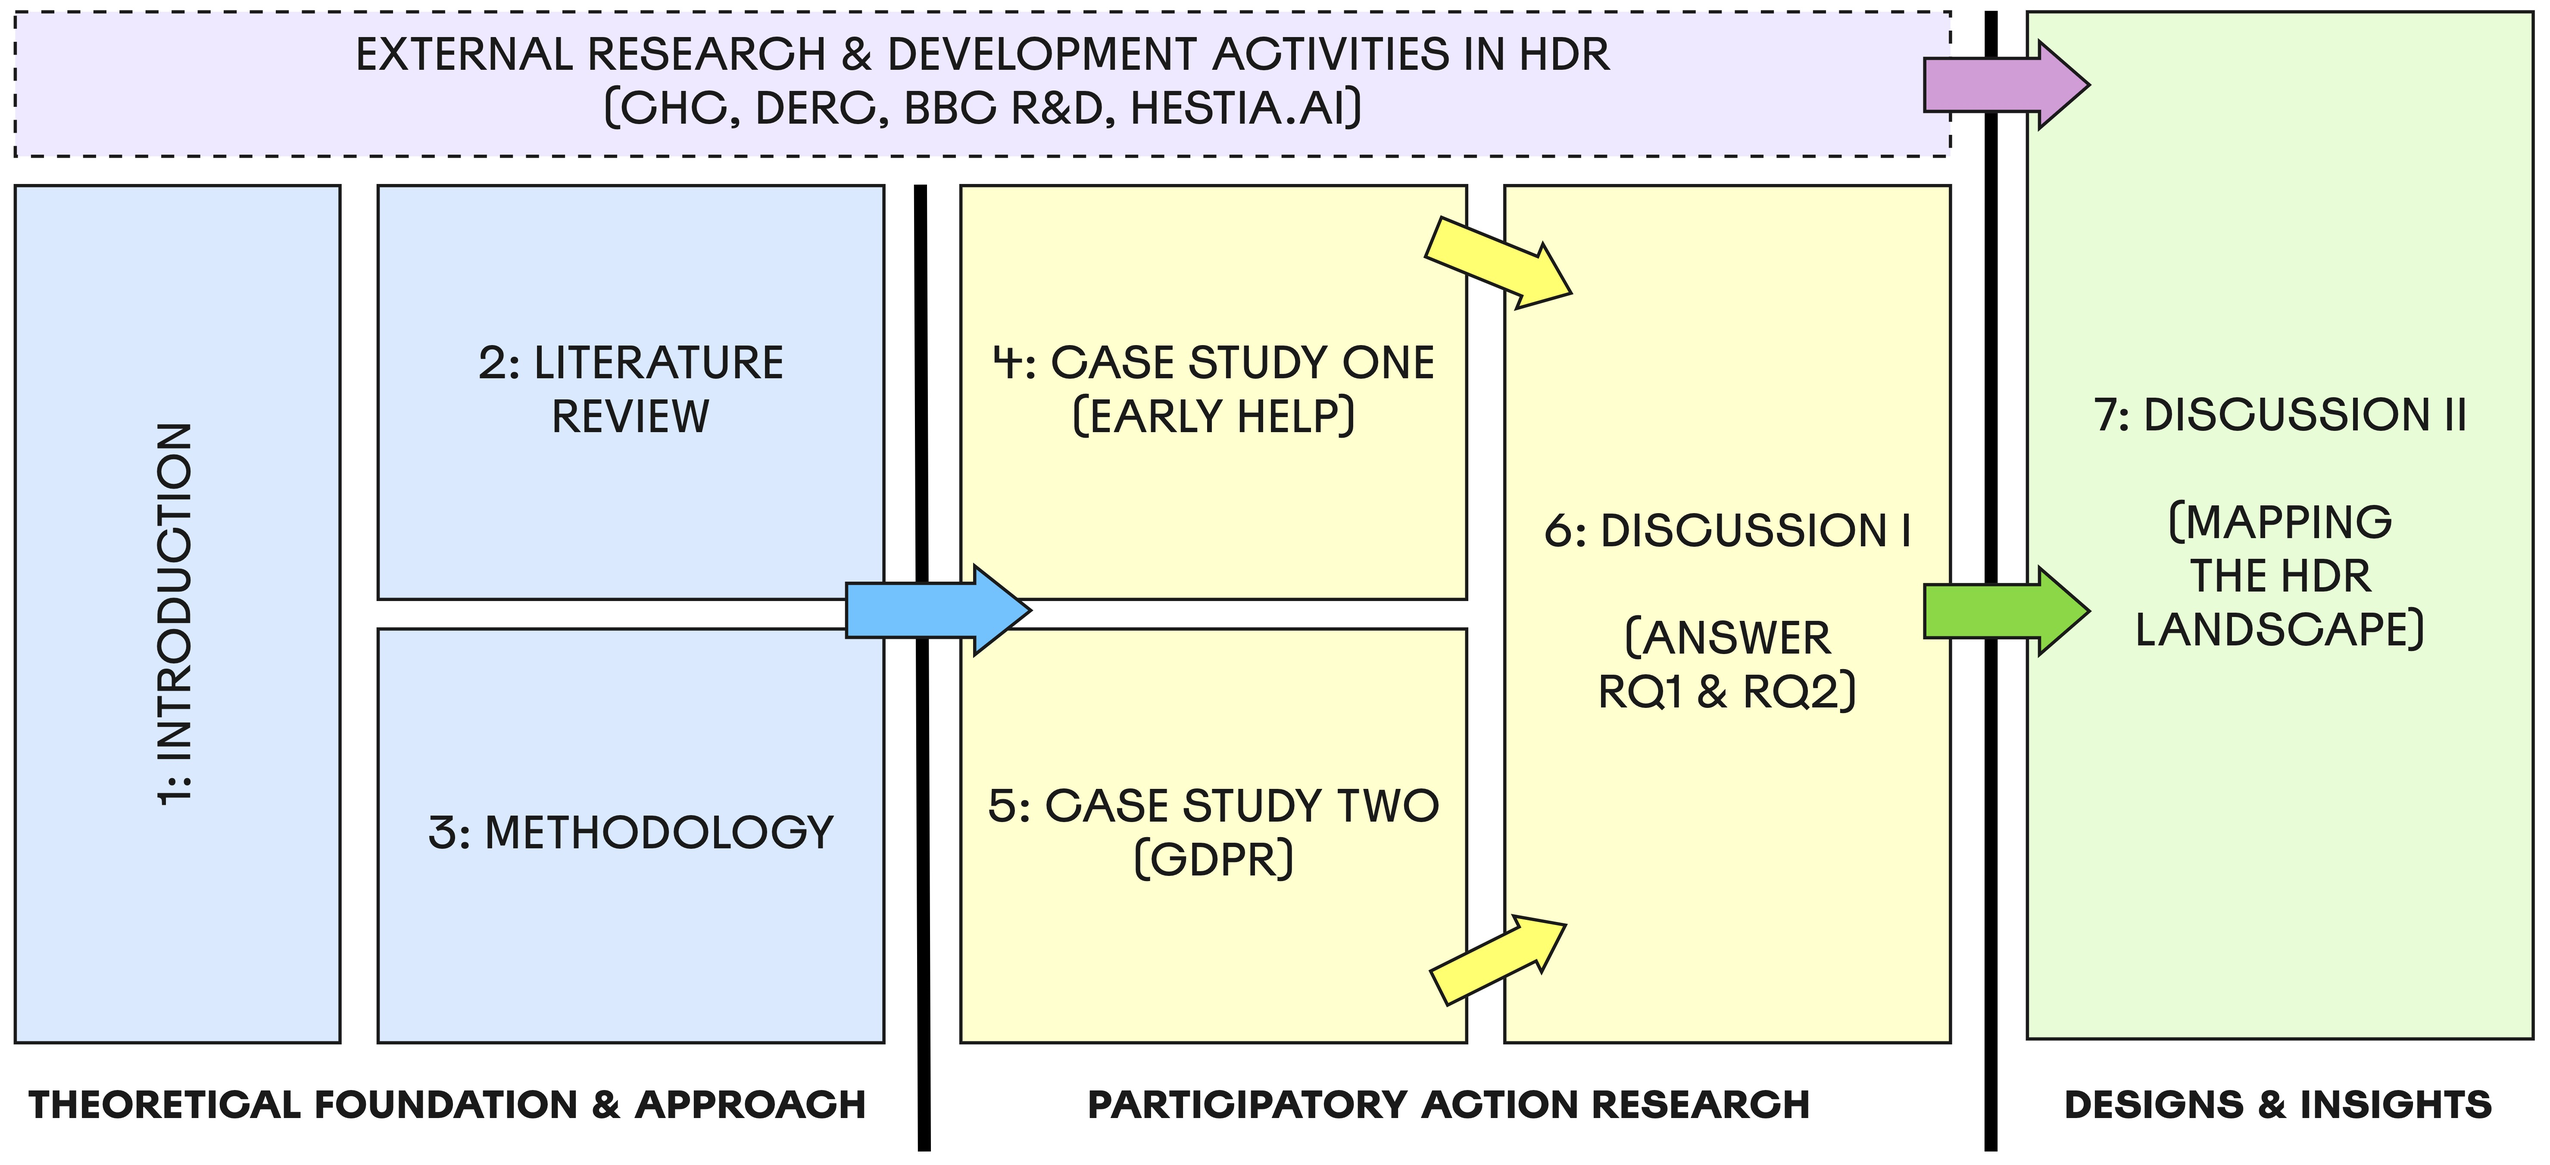
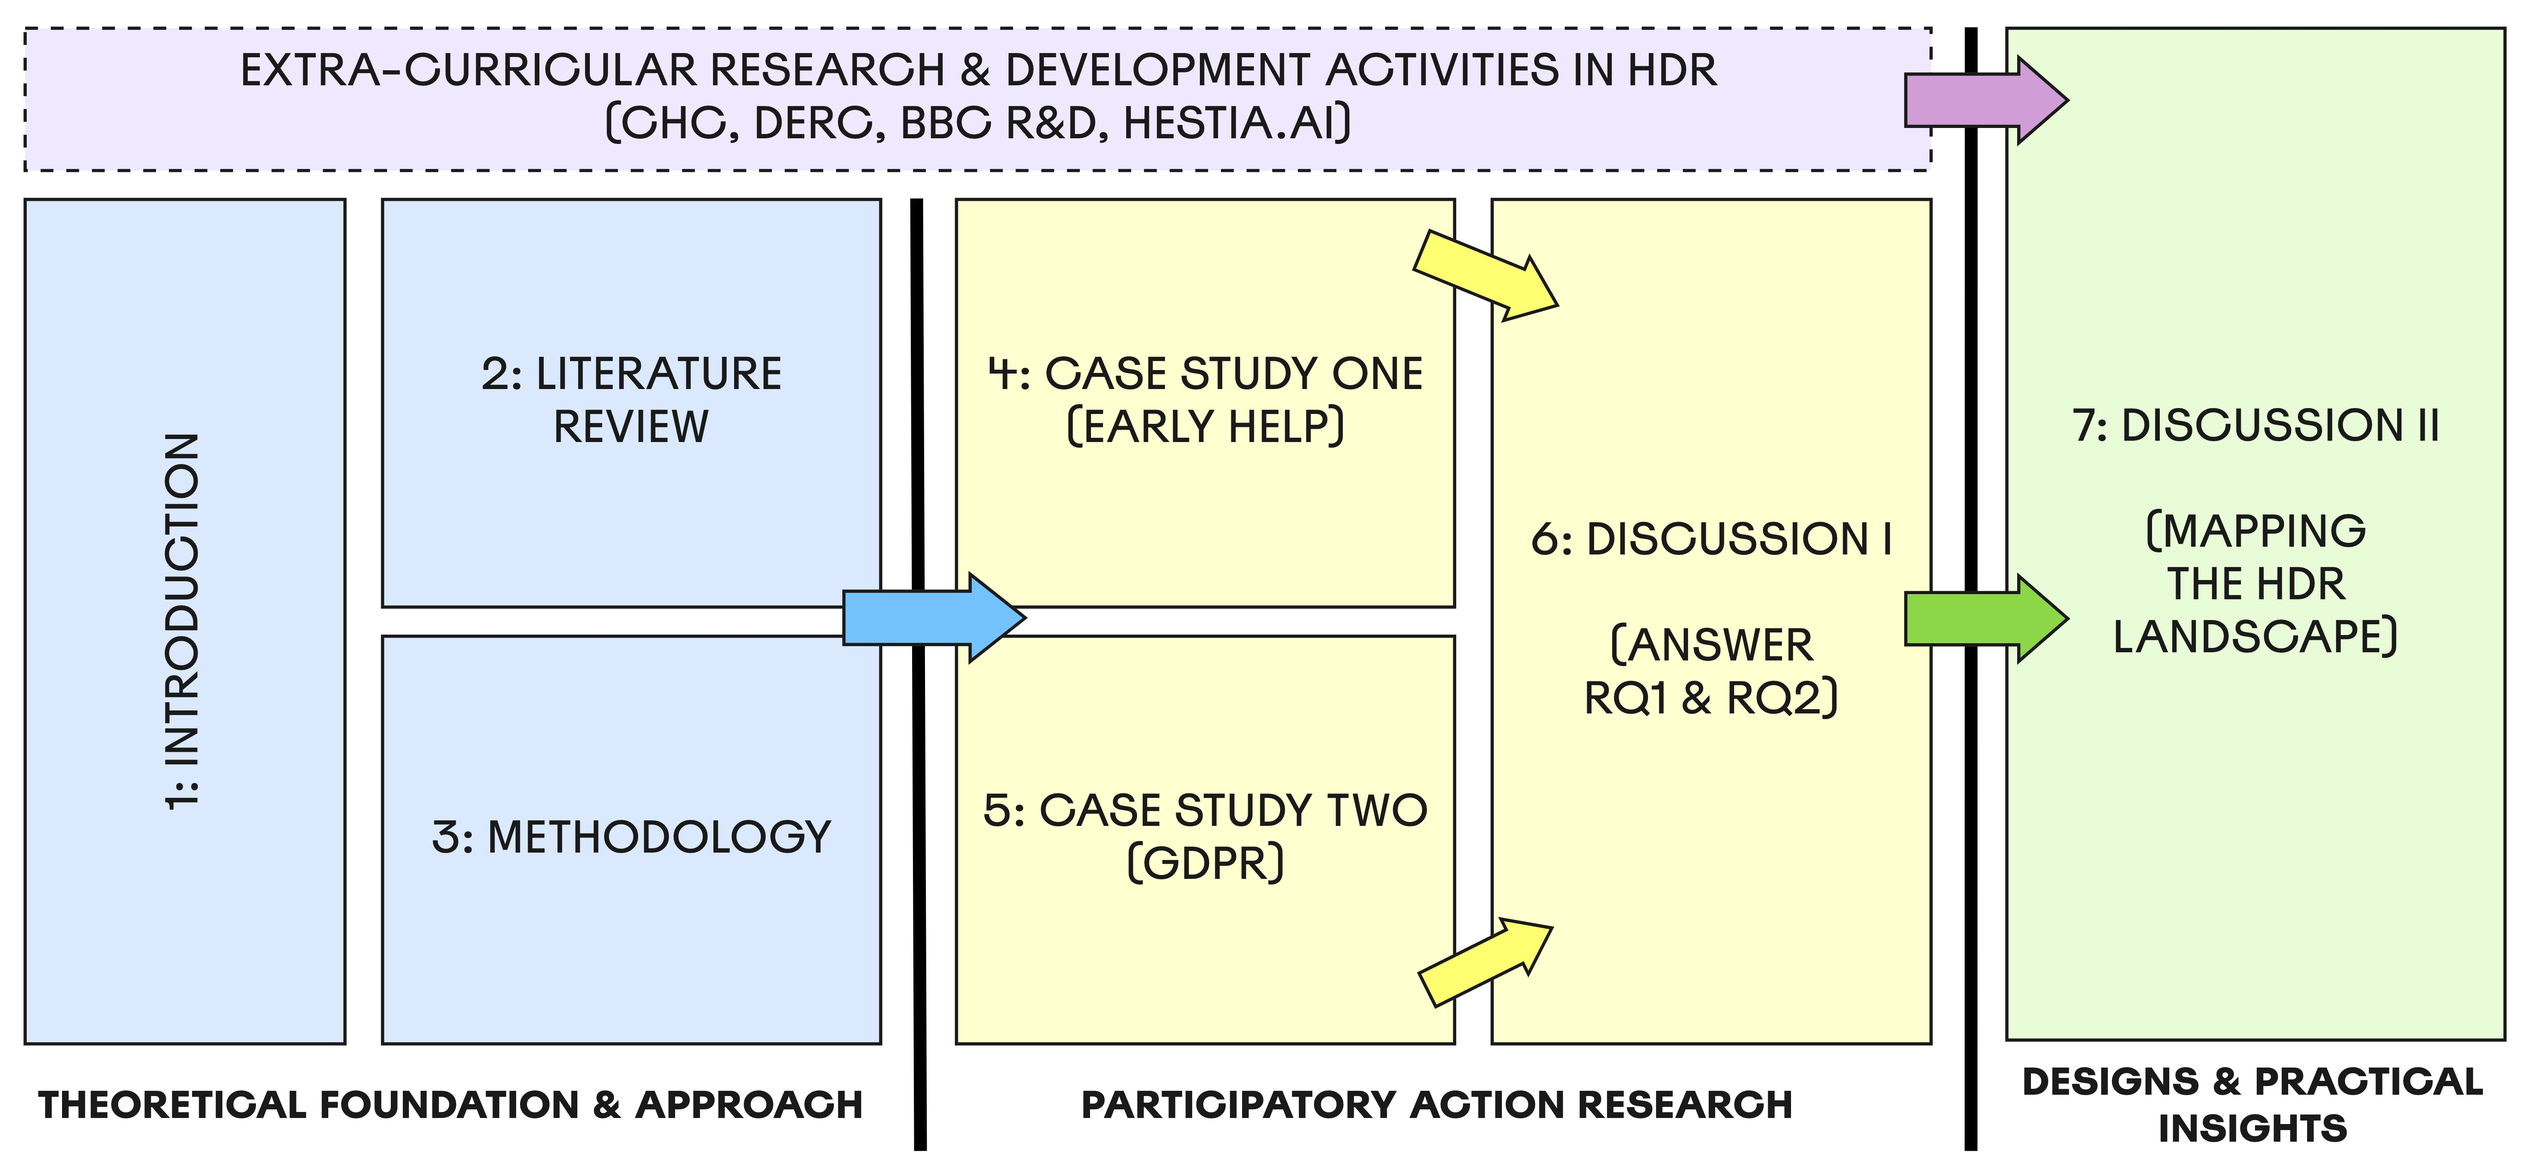
finished first draft Chapter 1 Introduction :-)

diff --git a/src/chapter-1.md b/src/chapter-1.md
@@ -163,13 +163,13 @@ A particularly novel and surprising discovery from Case Study Two was that the u
 
 Synthesis and analysis of participant experiences in Case Study Two enabled the production of specific guidance [[5.5](#5.5)] for parties involved in data relationships:
 
-1. Policymakers and DPOs should do better at enforcing GDPR rights, and regulate to improve response quality and legislate to mandate data holders to support data subjects in understanding data.
-2. Data-holding service providers should improve transparency over data and data handling process, and could seize the opportunities of more inclusive and collaborative models of individual data access to improve trust, empower users and reduce their own liability.
-3. Individuals should recognise the critical role of held personal data in modern life, embrace opportunities to access and exploit their own data and use data access rights to hold service providers to account.
+1. Policymakers and DPOs should do better at **enforcing GDPR rights**, and regulate to **improve response quality** and legislate to mandate data holders to **support data subjects in understanding data**.
+2. Data-holding service providers should **improve transparency** over data and data handling process, and could seize the opportunities of **more inclusive and collaborative models of individual data access** to improve trust, empower users and reduce their own liability.
+3. Individuals should recognise the critical role of held personal data in modern life, embrace opportunities to **access and exploit their own data** and **use data access rights to hold service providers to account**.
 
 **C12: A proto-methodology for educating individuals about held data, data access and the data ecosystem**
 
-While it was not designed as as methodological contribution nor formally evaluated as such within the scope of this thesis, the guided-data-retrieval-and-interview approach of Case Study Two [[5.2](#5.2)] has proven to be highly valuable and replicable as means to connect people with their held data and conduct research at that intersection point. Indeed my creation of this methodology was the primary reason why I was approached and employed as lead researcher of Hestia.ai/Sitra's digipower investigation [ADD REF], which adopted Case Study Two's methodology, with some adaptation and broadening of scope, for an important EU study auditing and understanding the power of data holders in the data economy [@bowyer2022b; @pidoux2022; ADD REF TO FINAL REPORT].
+While it was not designed as as methodological contribution nor formally evaluated as such within the scope of this thesis, the guided-data-retrieval-and-interview approach of Case Study Two [[5.2](#5.2)] has proven to be **highly valuable and replicable** as means to connect people with their held data and conduct research at that intersection point. Indeed my creation of this methodology was the primary reason why I was approached and employed as lead researcher of Hestia.ai/Sitra's digipower investigation [ADD REF], which **adopted Case Study Two's methodology**, with some adaptation and broadening of scope, for an important EU study auditing and understanding the power of data holders in the data economy [@bowyer2022b; @pidoux2022; ADD REF TO FINAL REPORT].
 
 Publications arising from and connected to this research{#1.3}
 --------------------------------------------------------
@@ -213,7 +213,7 @@ During the PhD, I gave a number of presentations and published three workshop pa
 - ["Designing For Human Autonomy: The next challenge that civic HCI must address"](https://eprints.ncl.ac.uk/273832) - a short talk I presented to my peers in January 2017 laying out the landscape of reduced agency and possible avenues for improving humans' relationships to their data.
 - ["Free Data Interfaces: Taking Human-Data Interaction to the Next Level"](https://eprints.ncl.ac.uk/273825) - a CHI 2018 workshop paper formalising past pre-PhD design thinking and outlining a vision for unconstrained and useful data interaction interfaces
 - ["A Grand Vision for Post-Capitalist HCI: Digital Life Assistants"](https://eprints.ncl.ac.uk/273826) - a CHI 2018 workshop paper where I imagined a form of digital computer assistant that is far more helpful and human-data-centric than the digital voice assistants of today.
-- ["Personal Data Use: A Human-centric Perspective"](https://eprints.ncl.ac.uk/273834) - in early 2020 just prior to the pandemic, I was invited to give a lecture on my research to undergraduate students at both Northumbria University and Newcastle University.
+- ["Personal Data Use: A Human-centric Perspective"](https://eprints.ncl.ac.uk/273834) - in early 2020 just prior to the pandemic, I was invited to give lectures on my research to undergraduate students at both Northumbria University and Newcastle University.
 - ["My Thesis in 3 Minutes: Understanding and Designing Human Data Relations"](https://www.youtube.com/watch?v=YFHXc_TfM5c) - in April 2021, I presented my thesis in the 3 minute thesis competition, and was co-winner of the people's choice prize.
 - ["Human-Data Interaction has two purposes: Personal Data Control and Life Information Exploration"](https://eprints.ncl.ac.uk/274297) - A workshop paper I presented at CHI 2021, where I first outlined my model of the two motivating factors for interacting with personal data.
 
@@ -229,18 +229,18 @@ During the same timeframe as this PhD, I have also contributed to a number of pu
 The structure of this thesis{#1.4}
 ----------------------------
 
-The overall structure of this thesis is illustrated in Figure X. This introduction is followed by a literature review [[Chapter 2](#chapter-2)]] and a methodology chapter [[Chapter 3](#chapter-3)]. Both research questions RQ1 and RQ2 are examined in both Case Studies, and these studies are documented as self-contained pieces of research in [[Chapter 4](#chapter-4)] and [[Chapter 5](#chapter-5)] respectively. In [[Chapter 6](#chapter-6)] the findings and insights from the Case Studies are synthesised into common findings as to what people want from data and from data holders, which concludes the investigation of the two research questions. [[Chapter 7](#chapter-7)] opens up the future of the HDR landscape and sets the stage for future research and innovation, building on both the research conclusions in Chapter 6 as well as my practical experiences from other related research and development activities conducted outside of this PhD research but during the same timeframe.
+The overall structure of this thesis is illustrated in Figure X. This introduction is followed by a literature review [[Chapter 2](#chapter-2)] and a methodology chapter [[Chapter 3](#chapter-3)]. Both research questions RQ1 and RQ2 are examined in both Case Studies, and these studies are documented as self-contained pieces of research in [[Chapter 4](#chapter-4)] and [[Chapter 5](#chapter-5)] respectively. In [[Chapter 6](#chapter-6)] the findings and insights from the Case Studies are synthesised into common findings as to what people want from data and from data holders, which concludes the investigation of the two research questions. [[Chapter 7](#chapter-7)] opens up the future of the HDR landscape and sets the stage for future research and innovation, building on both the research conclusions in Chapter 6 as well as my practical experiences from other related research and development activities conducted outside of this PhD research but during the same timeframe.
 
 ![Figure X: The Structure of this Thesis](./src/figs/figX-thesis-structure.jpg)
 
-[Chapter 2](#chapter-2)...[120w]
+[Chapter 2](#chapter-2) is a literature review divided into three key sections. The first [[2.1](#2.1)] examines the difference between data and information, outlines the central role data has taken in our society, why people need effective access to their data and how laws have been introduced to try and deliver this. The second [[2.2](#2.2)] serves as history of personal data interaction, from Personal Information Management to the emergence of complex digital lives involving relationships with many data-holding providers. Finally [[2.3](#2.3)] charts a path from HCI and Human-Data Interaction foundations through to the embracing of sociotechnical thinking around data and the current bleeding edge of human-centred innovation.
 
-[Chapter 3](#chapter-3)...[120w]
+[Chapter 3](#chapter-3) describes the methodology used in this research, explaining first the constructist ontology and pragmatist epistemology behind the approach [[3.1](#3.1)]. Then the choice of participatory action research and co-design from a Digital Civics standpoint is explained [[3.2](#3.2)]. The two research questions (RQs) are explained in more detail [[3.3](#3.3)] and the contexts for the Case Studies are introduced from a personal 'what did I do?' perspective [[3.4](#3.4)]. Finally the specific methods and techniques adopted in the research are explained and illustrated, including sensitisation, workshop activities, recruitment strategies and modelling [[3.5](#3.5)].
 
-[Chapter 4](#chapter-4)...[120w]
+[Chapter 4](#chapter-4) is a detailed, self-contained account of Case Study One. This begins [[4.1](#4.1)] with a detailed introduction to the UK's Early Help social care context, including its history of data-centrism and the inherent contradiction between that and the empowerment goals of Early Help which make it an ideal setting to explore my research questions. In [4.2](#4.2), prior findings on family and staff perspectives are introduced, motivating the _'Shared Data Interaction'_ vision and structure of the workshops, whose participants' shared values are introduced. The thematic findings are detailed extensively [[4.3](#4.3)] including participant quotes, and then contextualised in the discussion [[4.4](#4.4)] in terms of the value of involving people with their data, the link between HDI and effective data access, and the implications of shifting the locus of decision-making. The research is summarised in [[4.5](#4.5)].
 
-[Chapter 5](#chapter-5)...[120w]
+[Chapter 5](#chapter-5) is a thorough and self-contained write-up of Case Study Two. The first section [[5.1](#5.1)] provides additional context on the need for data access, prior GDPR research and the human-centric approach to this study, whose design and configuration is detailed in [5.2](#5.2). Findings are shared: firstly [[5.3](#5.3)] the largely quantitative outcomes of the participants' GDPR requests, interview responses and trust/power scores, then the thematic findings [5.4](#5.4), illustrated with participant quotes. The discussion [[5.5](#5.5)] contextualises and synthesises the findings into human-centric, GDPR-improving guidelines for policymakers, data holders and individuals. The research is summarised in [[5.6](#5.6)].
 
-[Chapter 6](#chapter-6)...[120w]
+[Chapter 6](#chapter-6) synthesises the two case studies, and answers RQ and RQ2, bringing the thesis's central empirical research to a close based on findings and discursive insights from both studies backed by literature references. The answer to RQ1 is provided [[6.1](#6.1)] as people's three wants from direct data relations (for it to be visible, understandable and useable), and the answer to RQ2 is provided [[6.2](#6.2)] as people's three wants from indirect data relations (process transparency, individual oversight, and involvement). The chapter concludes [[6.3](#6.3)] by outlining this thesis's perspective power and positioning the pursuit of these six _'data wants'_ as _empowerment_ relative to that perspective and thus as _'better HDR'_.
 
-[Chapter 7](#chapter-7)...[120w]
+[Chapter 7](#chapter-7) is a deliberately broad, shallow and open-ended chapter framed around synthesised research and designerly insights. This moves beyond a traditional thesis structure, with the goal of providing real-world experience and ideas on _how such human-centric empowerment might be achieved_, which I believe is the best way to share the HDR insights I have gained along this six year journey that go beyond traditional empirical findings. This is also augments this thesis to become a _valuable and actionable reference material_ for future researchers and innovators. First [[7.1](#7.1)], the additional extra-curricular industrial and academic research contexts that I worked in alongside this PhD are introduced, along with relevant additional background around _Theories of Change_ (ToC) and consideration of those who pursue better HDR as a _recursive public_. In [[7.2](#7.2)], insights from the thesis's findings and from external experiences are synthesised to frame the pursuit of this thesis's 'data wants' as a defined field of future research, called _Human Data Relations_ (HDR). The landscape of HDR is mapped out in two parts. First [[7.3](#7.3)], the six data wants are mapped into four _'landscape objectives'_, which are then used as a frame to outline the identified _obstacles_ to pursuit of those objectives, followed by useful _insights_ that could be embraced to tackle those obstacles. Then [[7.4](#7.4)], using a ToC framing, my identified _opportunities for progress_ are introduced, divided into _four different trajectories of change_ that could be executed in practice to pursue better HDR. Finally [[7.5](#7.5)], the thesis concludes with a summary of its findings and contributions.

diff --git a/src/chapter-6.md b/src/chapter-6.md
@@ -6,8 +6,8 @@ Discussion I: An Understanding of Human Data Relations {#chapter-6}
 It will be already evident to the reader that there are significant overlaps and parallels to be drawn across the findings and discursive insights in Case Study One and Two. In this first discussion chapter, I will draw on both Chapter 4 and Chapter 5 to produce a unified summary of findings and insights in terms of the first two research subquestions RQ1 and RQ2.
 To recap on the research objectives expressed in 3.3, these two RQs are:
 
-- RQ1: "What is the human experience of personal data, and what do people want from their data?"
-- RQ2: "What role does data play in people’s service relationships and how could relationships involving data be improved?"
+- **RQ1: "What is the human experience of personal data, and what do people want from their data?"**
+- **RQ2: "What role does data play in people’s service relationships and how could relationships involving data be improved?"**
 
 The answers to these research questions are best expressed as an understanding of individual *wants* relating to data. The word 'want' is used here in a broader sense than its everyday meaning, referring to the *lack* of something that would be beneficial (which may or may not be accompanied by conscious desire). By framing our accumulated understandings from the Case Studies in this way, we are exposing both the problem - the things that individuals do not have or cannot do, while also identifying the goals that any imagined solutions or improvements to the status quo would need to address. It logically follows that any solution that better delivers on individual _data wants_ will lead to improved relations between individuals and their data. This is how we can conceptualise "Human Data Relations" as alluded to in the title of this thesis, and indeed this gives us a yardstick against which to understand what "better" means, which will be explored in Chapter 7. _"Human Data Relations"_ is a term that I introduce here to expand upon the established theory of Human Data Interaction [@mortier2013;@mortier2014] in light of the Case Studies' findings from a more sociotechnical, interpersonal point of view. Humans have two kinds of relationships with data: _direct_ interaction (such as through an interface in an app or website) and _indirect_ interaction (through interacting with services, providers or individual representatives who themselves have access to personal data about the individual). Thus, Human Data Relations is a term that can encompass both the relationship humans have with their data, but also the relationships they have in which data plays an indirect role. In this context, RQ1 and RQ2 map quite cleanly onto these two types of Human Data Relations, and in answering RQ1 we can identify what people want from direct data relations, while RQ2 helps provide an answer as to what people want from indirect data relations.
 
